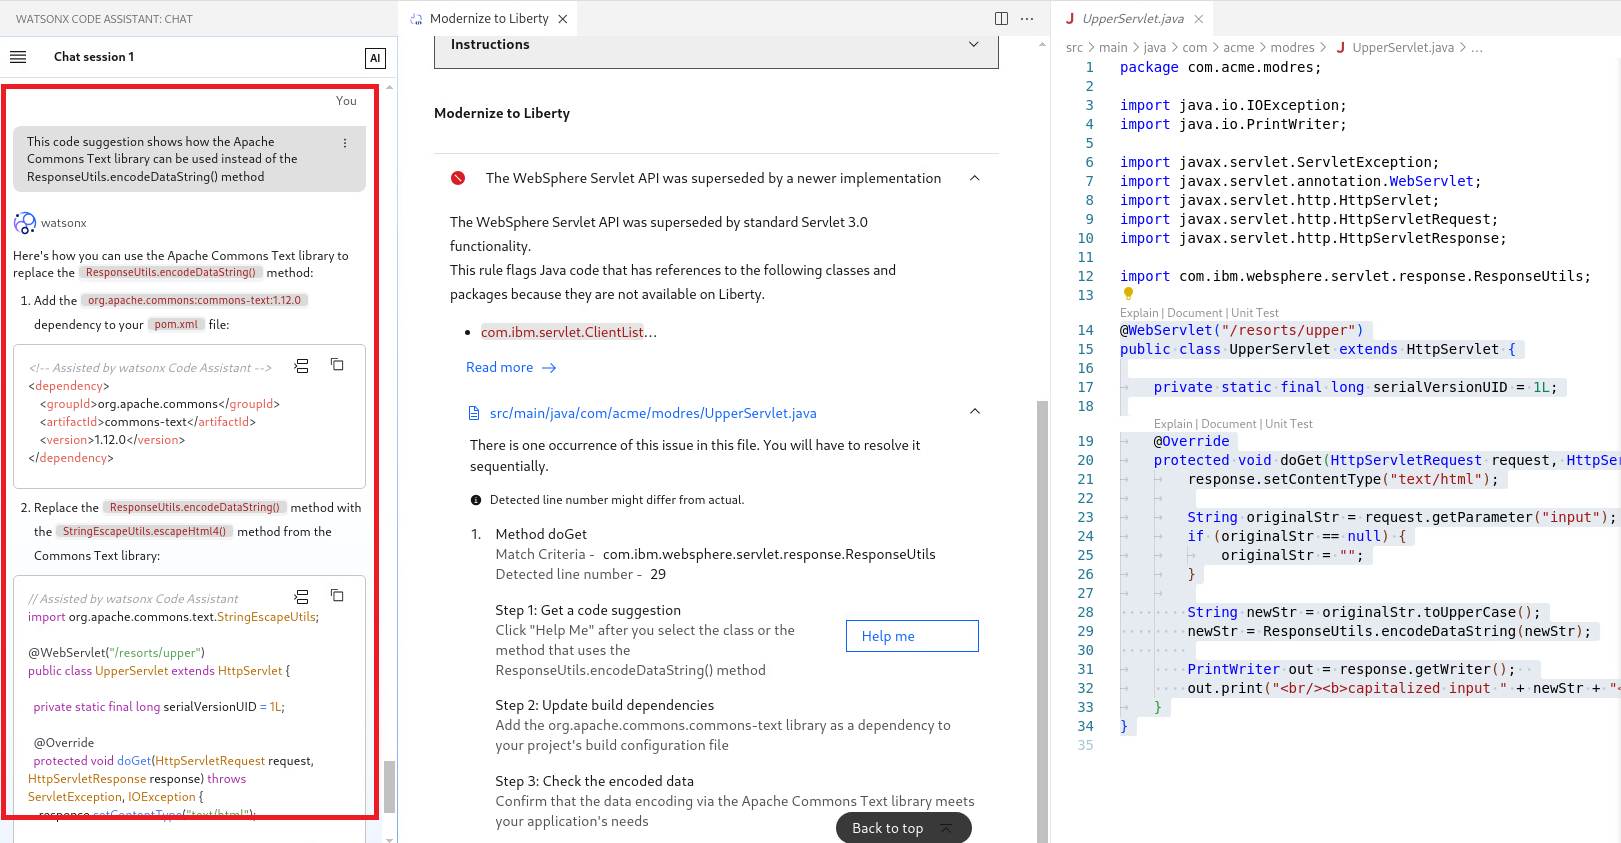
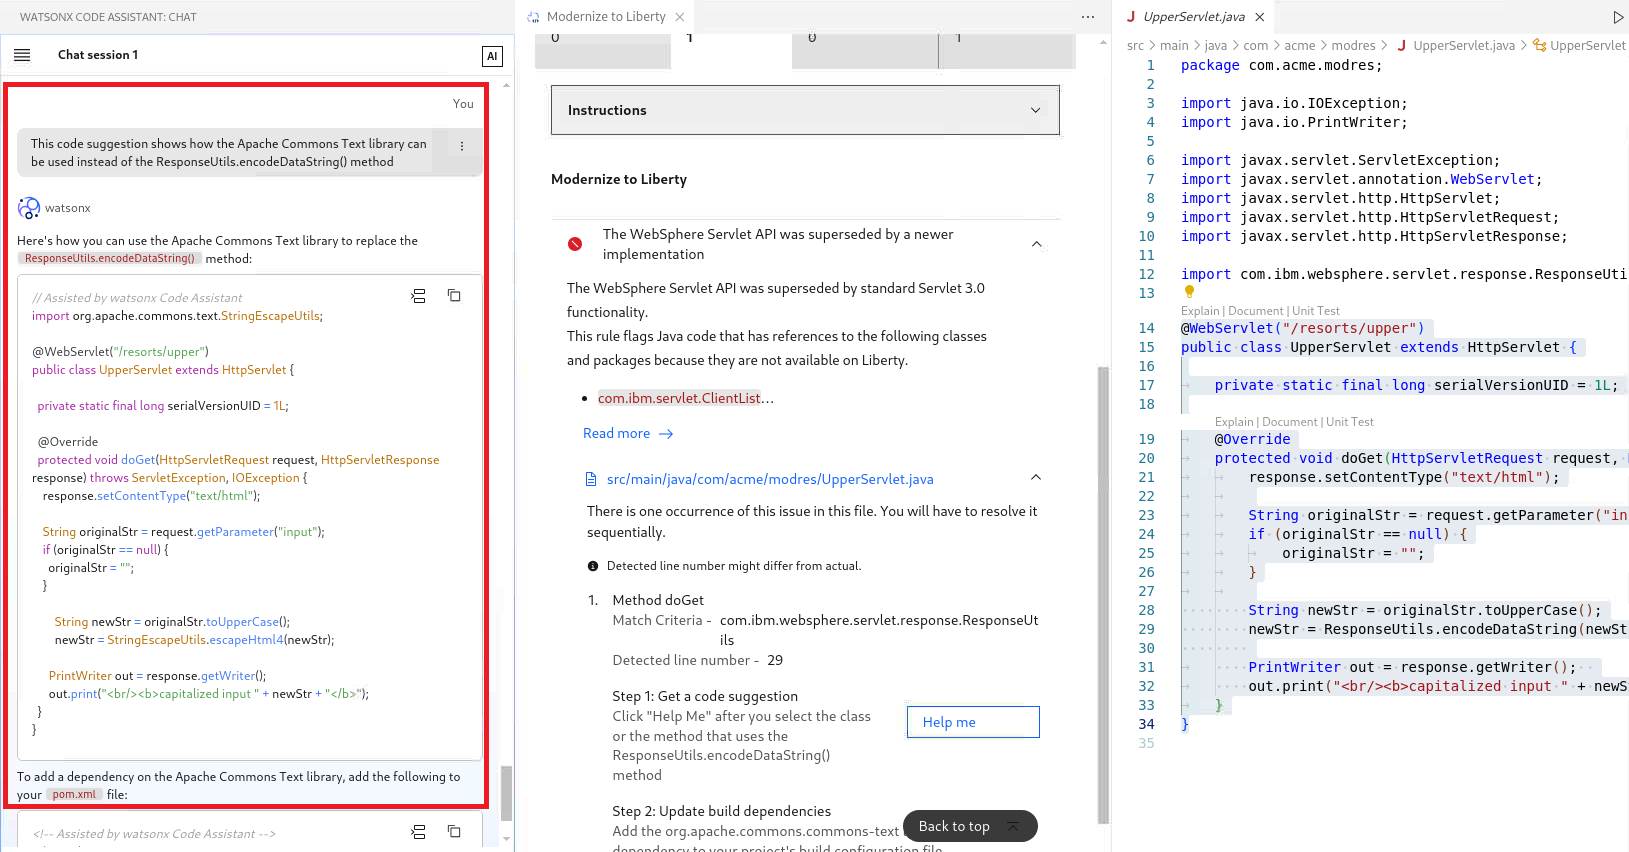
Updated

Changed region(s): [[0.0, 0.0, 1.0, 1.0], [0.6169, 0.0, 1.0, 0.1542]]

diff --git a/README.md b/README.md
@@ -845,19 +845,13 @@ and you can see the instructions and the code next to each other.
 
 8. Replace the previously selected with the code recommended by watsonx Code Assistant.
 
-    You could use copy and paste to update the code. But as the code to be replaced has already been selected, use teh function **Insert at cursor** to replace the code.
+    You could use copy and paste to update the code. But as the code to be replaced has already been selected, you can use the function **Insert at cursor** to replace the code.
+
+    a. Click on the tab **UpperServlet.java** to give it focus (but keep the code selected). Then click in the chat on the icon **Insert at cursor**. 
 
     <kbd>![](./images/media/ModResorts_Modernize_AssistedFixes08.png)</kbd>
 
-    Hint: You can use the copy function to select/copy the code.
- 
-    <kbd>![](./images/media/WCA_copyCode.png)</kbd>
-
-    b.	Switch back to the source code and replace the selected code.
- 
-    <kbd>![](./images/media/ModResorts_Modernize_AssistedFixes09.png)</kbd>
-
-    c.	Save the code changes, then close the Java class.
+    c.	Review and save the code changes, then close the Java class.
 
 9.	Add the recommended dependency to the pom.xml. 
 
